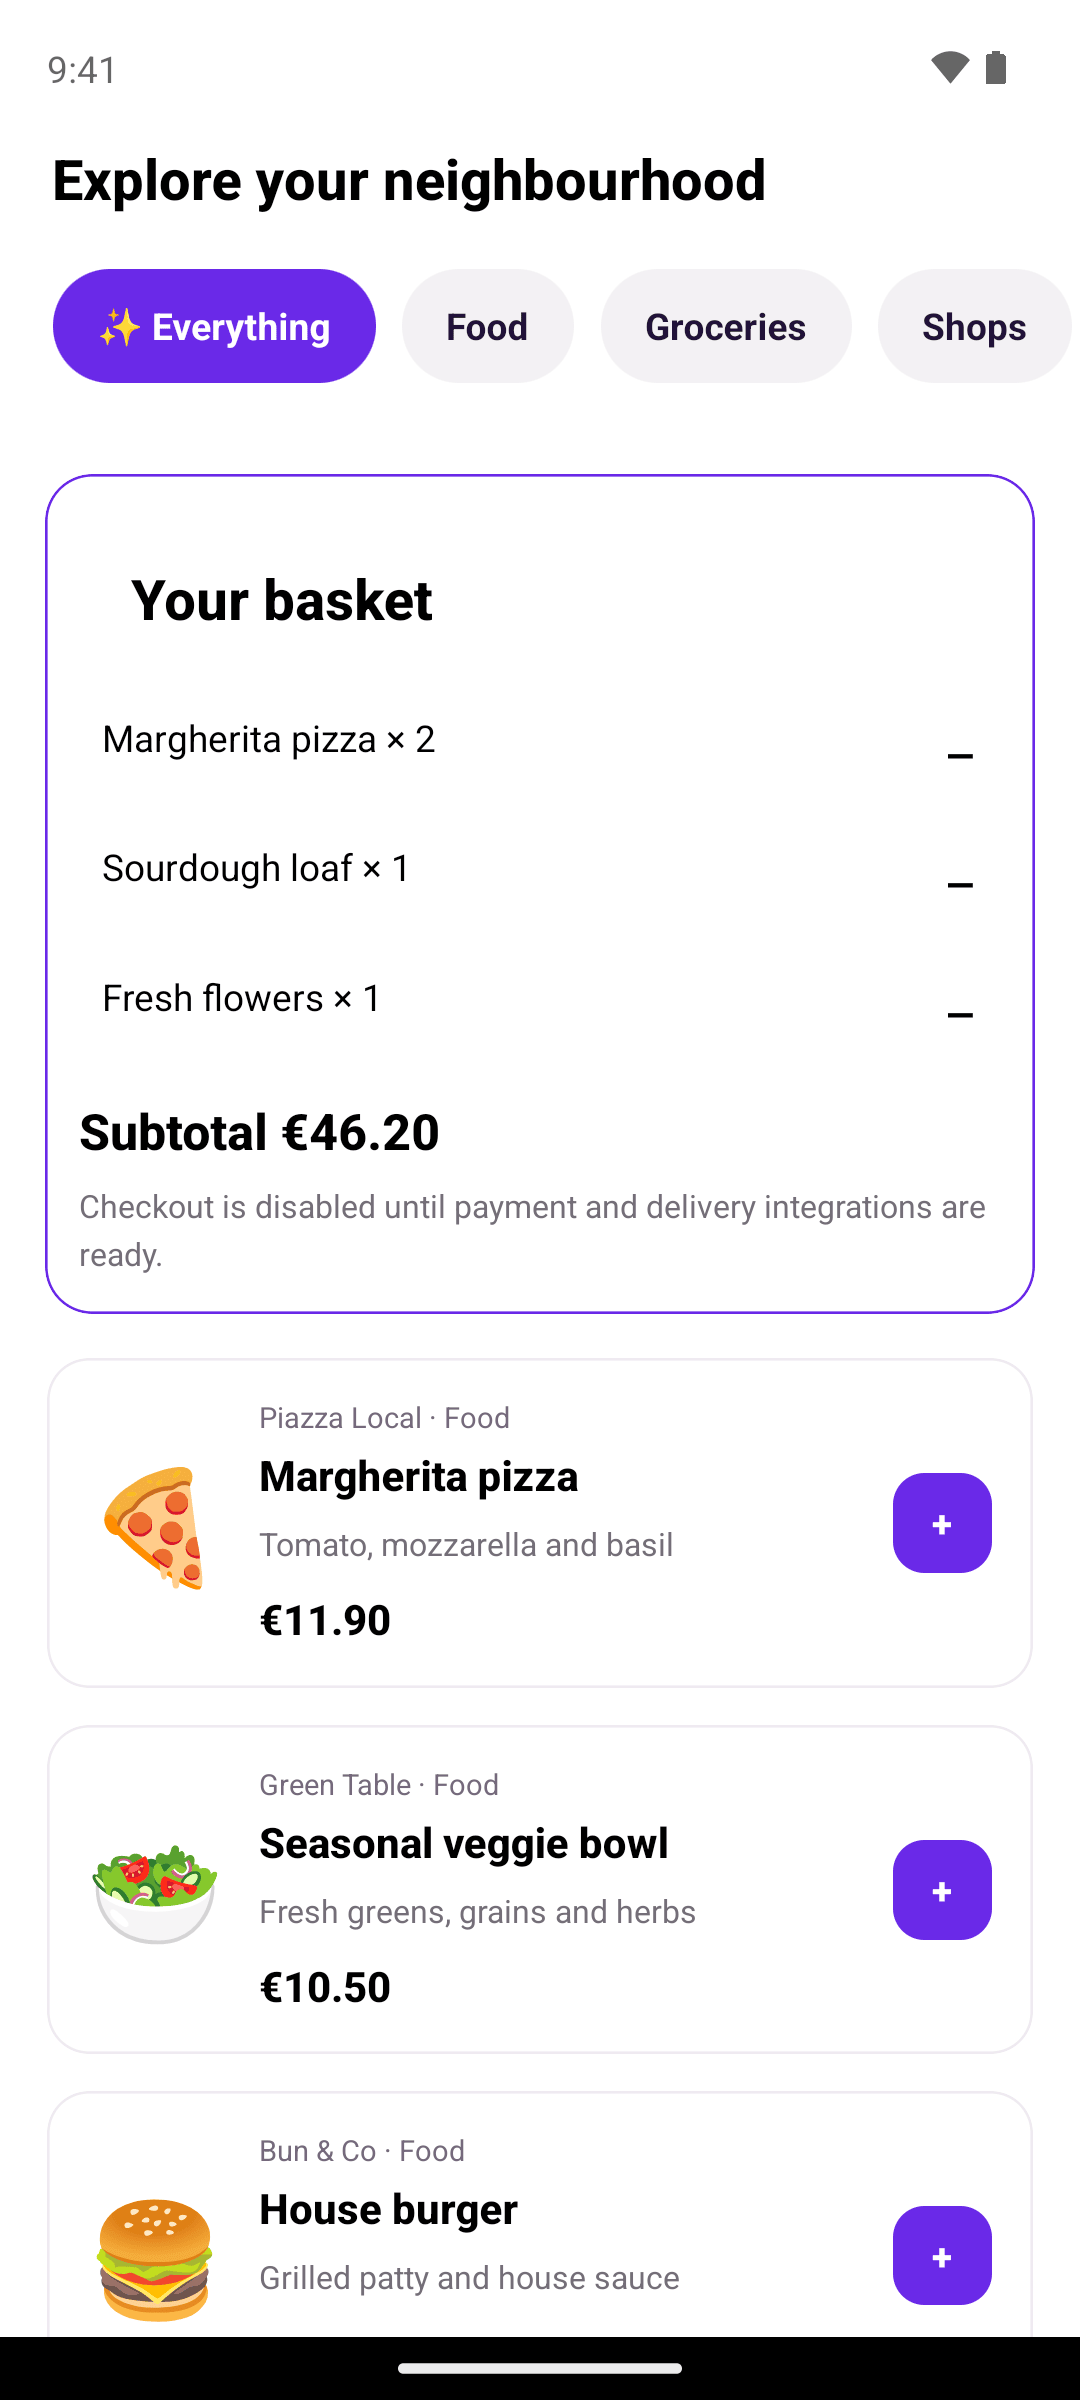
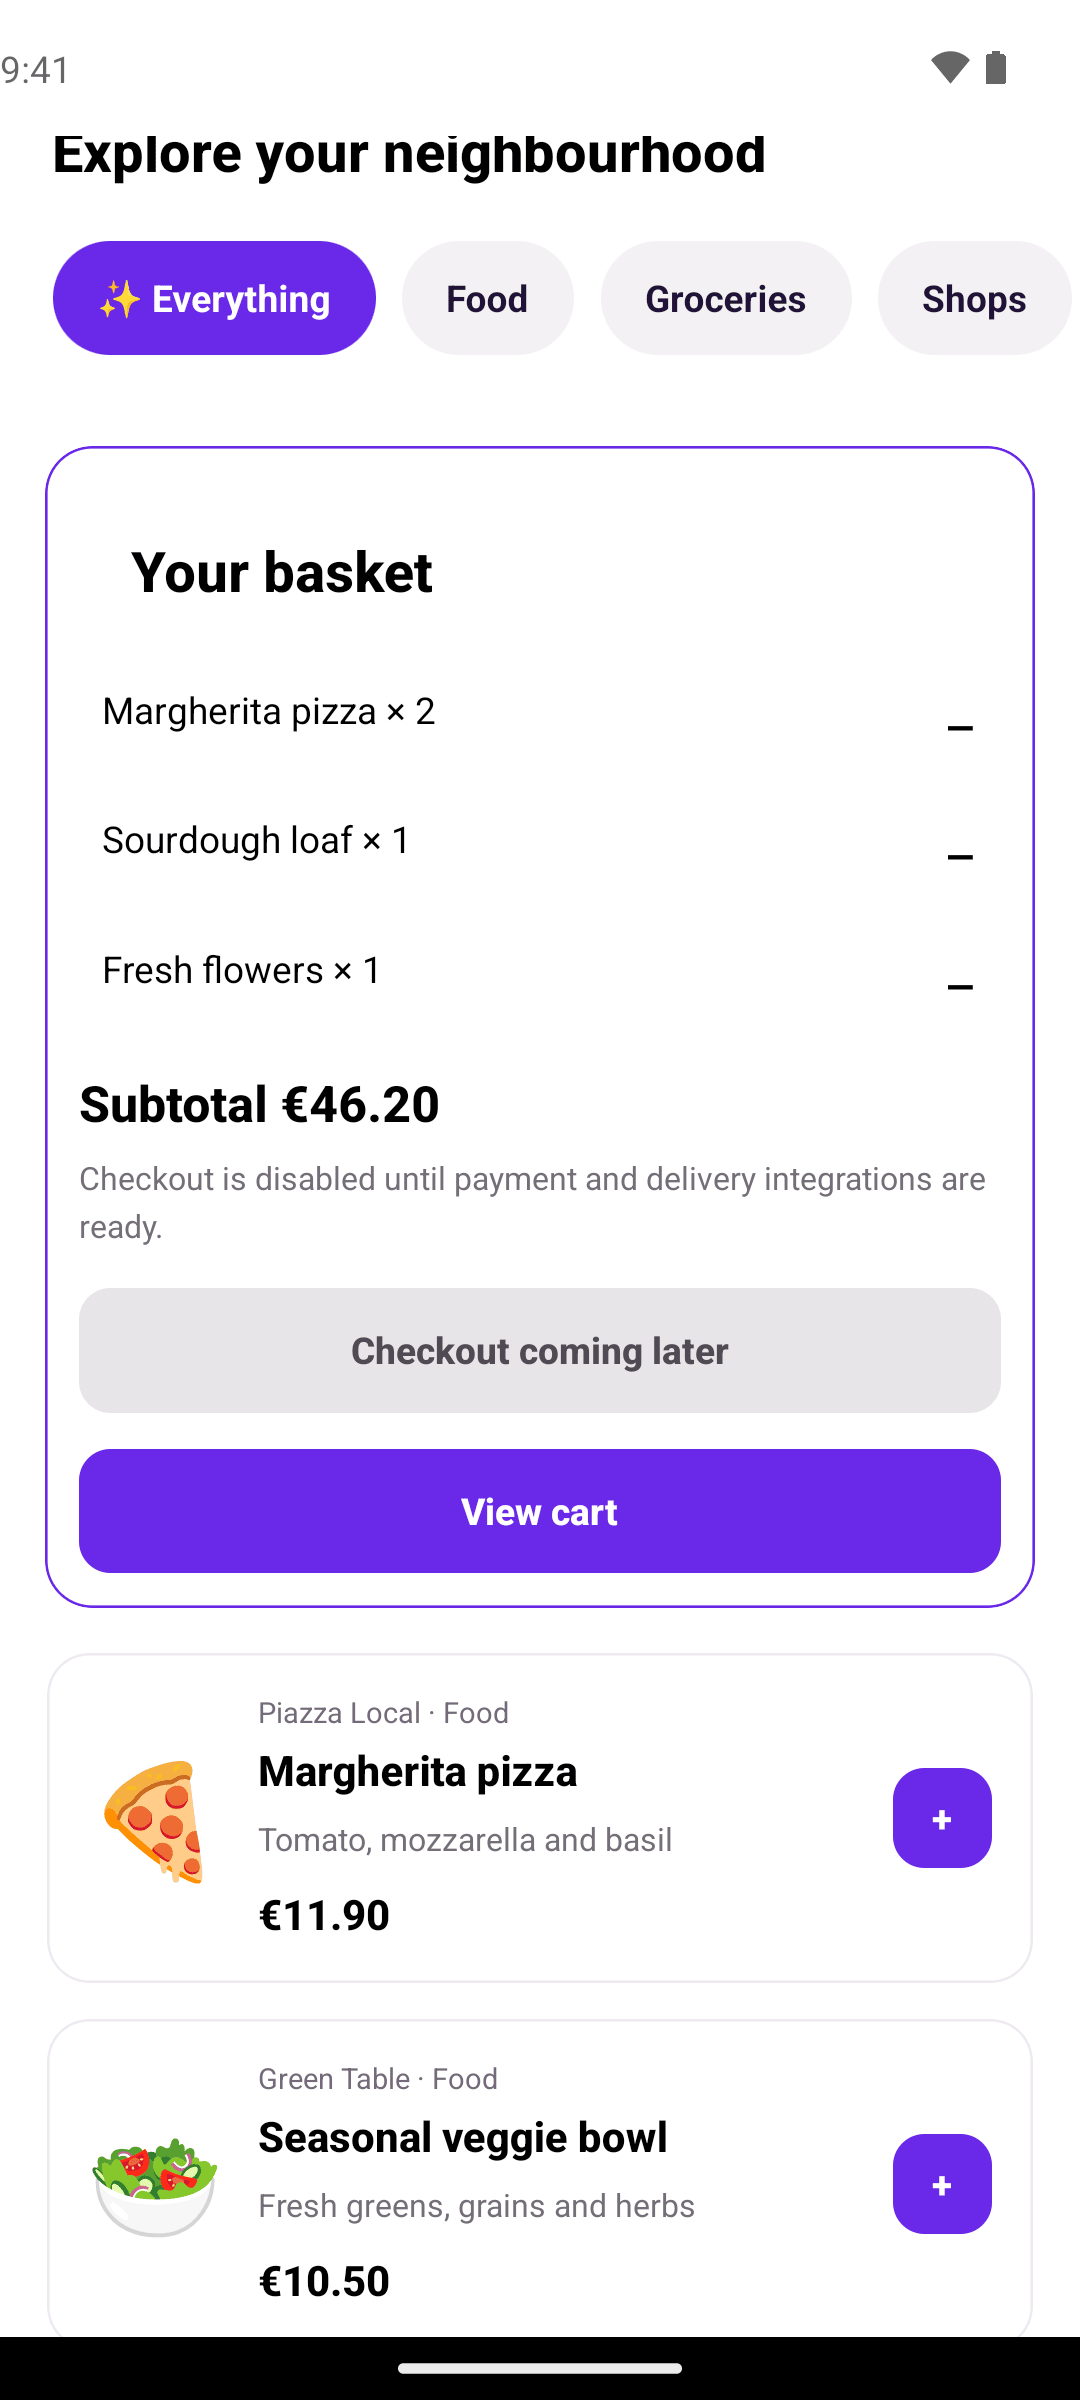
docs(screenshots): Android gallery with product and cart screens from run 44902715301
Refs #37

diff --git a/README.md b/README.md
@@ -64,18 +64,22 @@ SUT reference imagery captured from the real app. These are not Wopee or Appium 
 | | iOS simulator | Android emulator |
 | --- | --- | --- |
 | Catalogue | <img src="docs/screenshots/ios/catalogue.png" width="240" alt="iOS app catalogue: header, hero, category pills and first products"> | <img src="docs/screenshots/android/catalogue.png" width="240" alt="Android app catalogue: header, hero, category pills and first products"> |
-| Cart with items | <img src="docs/screenshots/ios/cart.png" width="240" alt="iOS basket summary: 2x Margherita pizza, Sourdough loaf, Fresh flowers, subtotal 46.20 euro, checkout disabled"> | <img src="docs/screenshots/android/cart.png" width="240" alt="Android basket summary with the same four items and subtotal 46.20 euro"> |
+| Product screen | not captured yet (see below) | <img src="docs/screenshots/android/product.png" width="240" alt="Android product screen for Margherita pizza: back link, cart count, 11.90 euro, Add to cart button"> |
+| Inline basket | <img src="docs/screenshots/ios/cart.png" width="240" alt="iOS inline basket: 2x Margherita pizza, Sourdough loaf, Fresh flowers, subtotal 46.20 euro, checkout disabled"> | <img src="docs/screenshots/android/cart.png" width="240" alt="Android inline basket with the same four items, subtotal 46.20 euro, Checkout coming later and View cart"> |
+| Cart screen | not captured yet (see below) | <img src="docs/screenshots/android/cart-screen.png" width="240" alt="Android cart screen: three lines with steppers and Remove links, subtotal 46.20 euro, prototype notice, disabled checkout"> |
 
 | Provenance | iOS | Android |
 | --- | --- | --- |
-| Workflow run | [SUT screenshots #44817080915](https://github.com/wopee-io-demos/tazumo/actions/runs/44817080915) | same run |
-| SUT commit | [`3354ab6`](https://github.com/wopee-io-demos/tazumo/commit/3354ab63930c56ff8fb138e55c1682c54029a04c) (last change to `apps/mobile`, `packages`, workspace config) | same |
-| Capture commit | `b925225` on the [#57](https://github.com/wopee-io-demos/tazumo/pull/57) branch. Later commits in that PR only pinned the Maestro download and emulator action, forced Android light mode and added checksums and resolved versions to `provenance.json` | same |
+| Workflow run | [SUT screenshots #44817080915](https://github.com/wopee-io-demos/tazumo/actions/runs/44817080915) | [SUT screenshots #44902715301](https://github.com/wopee-io-demos/tazumo/actions/runs/44902715301) |
+| SUT commit | [`3354ab6`](https://github.com/wopee-io-demos/tazumo/commit/3354ab63930c56ff8fb138e55c1682c54029a04c), before the native product and cart screens (#45) | [`be970e2`](https://github.com/wopee-io-demos/tazumo/commit/be970e26633469e94876c5740051fcb1ed082179) (last change to `apps/mobile`, `packages`, workspace config at capture time) |
+| Capture commit | `b925225` on the [#57](https://github.com/wopee-io-demos/tazumo/pull/57) branch | `7e629c3` on the [#127](https://github.com/wopee-io-demos/tazumo/pull/127) branch |
 | Build | Release `iphonesimulator` build with the JS bundle embedded, unsigned | Release-variant APK with the JS bundle embedded, signed with the debug keystore, x86_64 |
-| Device | iPhone 16 Pro simulator on the iOS 26.2 runtime, built with Xcode 16.4 (iPhoneSimulator 18.5 SDK), hosted `macos-15` | `sdk_gphone64_x86_64` emulator, Android 14 (API 34), hosted `ubuntu-latest` with KVM |
+| Device | iPhone 16 Pro simulator on the iOS 26.2 runtime, Xcode 16.4 (iPhoneSimulator 18.5 SDK), hosted `macos-15` | `sdk_gphone64_x86_64` emulator, Android 14 (API 34), hosted `ubuntu-latest` with KVM |
 | Capture | `xcrun simctl io screenshot`; taps by Maestro 1.41.0 | `adb exec-out screencap -p`; taps by Maestro 1.41.0 |
-| Fixture data | Same synthetic catalogue and cart as the web gallery | same |
-| Captured | 2026-11-20 ([`provenance.json`](docs/screenshots/ios/provenance.json), [`SHA256SUMS`](docs/screenshots/ios/SHA256SUMS)) | 2026-11-20 ([`provenance.json`](docs/screenshots/android/provenance.json), [`SHA256SUMS`](docs/screenshots/android/SHA256SUMS)) |
+| Fixture data | Same synthetic catalogue and cart as the web gallery | same, plus the Margherita pizza product screen |
+| Captured | 2026-11-20 ([`provenance.json`](docs/screenshots/ios/provenance.json), [`SHA256SUMS`](docs/screenshots/ios/SHA256SUMS)) | 2026-11-21 ([`provenance.json`](docs/screenshots/android/provenance.json), [`SHA256SUMS`](docs/screenshots/android/SHA256SUMS)) |
+
+The iOS gallery still shows the app before #45. iOS captures no longer run on pull requests: they run on `main`, nightly and on dispatch. On the iOS 27 simulator the app currently crashes at launch because it does not adopt the UIScene lifecycle ([#171](https://github.com/wopee-io-demos/tazumo/issues/171)). The iOS product-screen and cart-screen captures will be added from the first green iOS run after [#172](https://github.com/wopee-io-demos/tazumo/pull/172) pins the capture to an iOS 26.x runtime.
 
 The PNGs and `provenance.json` are the exact files from the run's `tazumo-screenshots-ios` and `tazumo-screenshots-android` artifacts, optimised in CI with pngquant; `SHA256SUMS` was computed from the downloaded artifacts, so the match stays checkable after the artifacts expire (newer runs also write the checksums into `provenance.json`). To regenerate, run the [SUT screenshots workflow](.github/workflows/screenshots.yml) (`workflow_dispatch`, or any PR touching `apps/mobile/**`, `packages/**` or the capture files), then:
 

diff --git a/openspec/changes/readme-screenshots/tasks.md b/openspec/changes/readme-screenshots/tasks.md
@@ -17,8 +17,10 @@
 
 ## Gallery refresh after #45, #50, #80, #81 (PR #127)
 - [x] Web gallery recaptured on branch commit `bfffa0e` (base `cdf4c54`, web SUT `f9616f7`) with merchant-detail and product-detail captures added; 12/12 captures passed; every PNG opened.
-- [ ] Native flows extended to the product screen and the cart screen from #45 (`product-detail.yaml`, `back-to-catalogue.yaml`, `cart-screen.yaml`); native PNGs recaptured in CI and committed with `SHA256SUMS`.
-- [ ] README regenerate block removes old files before `gh run download` and rebuilds `SHA256SUMS`; provenance splits `os` and `toolchain`.
+- [x] Native flows extended to the product screen and the cart screen from #45 (`product-detail.yaml`, `back-to-catalogue.yaml`, `cart-screen.yaml`), using canonical `sut-*` testIDs.
+- [x] Android PNGs from [run 44902715301](https://github.com/wopee-io-demos/tazumo/actions/runs/44902715301) on `7e629c3` (SUT `be970e2`) committed byte-identical with `SHA256SUMS` (matches `pngSha256` in provenance); all four opened: catalogue, product, inline basket, cart screen, clean 9:41 status bar.
+- [ ] iOS product and cart-screen PNGs: blocked by the iOS 27 launch crash (#171) until #172 pins the capture to iOS 26.x; iOS gallery stays on run 44817080915 (pre-#45) and says so.
+- [x] README regenerate block removes old files before `gh run download` and rebuilds `SHA256SUMS`; provenance splits `os` and `toolchain`.
 - [ ] Current-head CI green, independent review recorded, merged; merge SHA on #37.
 
 ## Downstream
